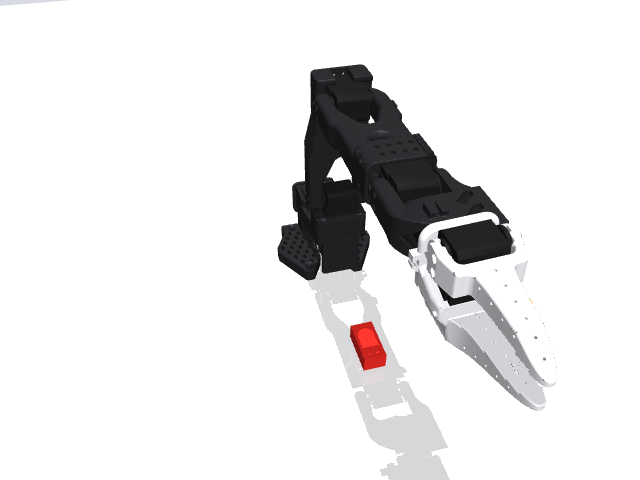
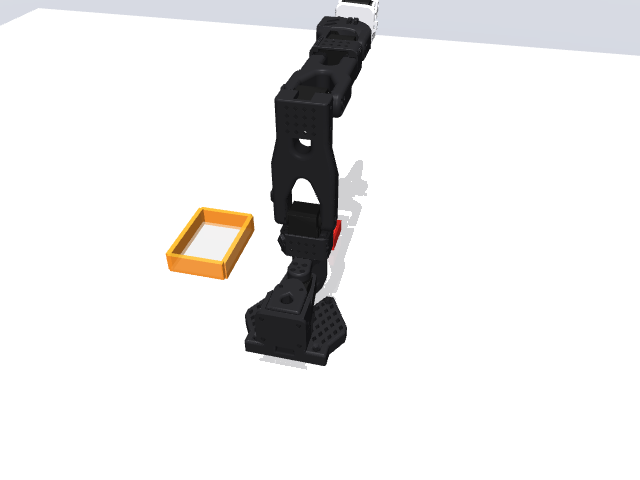
platform: fix up-camera direction + show all 3 cameras in dashboard
Addressing review:
- up camera was front-facing + too zoomed; moved it BEHIND the arm (over-the-shoulder,
  looking forward+down at the workspace via an invisible viewtarget) and pulled it back
  — now matches the real svla_so101_pickplace 'up' view (back of the servos visible)
- driver now renders + saves up/side/wrist each step (model still consumes only up+side)
- dashboard groups frames by camera into separate labelled strips (up / side / wrist)

Verified: a run has up:20/side:20/wrist:20 frames, all serving; up framing matches the
real reference.

Changed region(s): [[0.0, 0.0, 1.0, 1.0]]

diff --git a/web/dashboard.html b/web/dashboard.html
@@ -42,6 +42,8 @@
   .film{display:flex;gap:6px;overflow-x:auto;padding:10px 0 4px;margin-top:8px}
   .film img{height:104px;border-radius:6px;border:1px solid var(--line);cursor:pointer;flex:0 0 auto}
   .film img:hover{border-color:var(--info)}
+  .camrow{margin-top:12px}
+  .camlabel{font-size:10px;letter-spacing:.14em;text-transform:uppercase;color:var(--dim);margin-bottom:3px}
   .toolbar{display:flex;gap:10px;align-items:center;margin:14px 0 8px}
   .btn{background:var(--bg2);border:1px solid var(--line);color:var(--dim);padding:5px 11px;
     border-radius:7px;cursor:pointer;font:inherit}
@@ -99,6 +101,24 @@ function chartCard(title, vals, color){
   return `<div class="card"><h3>${title}<span class="now">${fmt(last)}</span></h3>${spark(vals,color)}</div>`;
 }
 
+// one labelled filmstrip per camera (up / side / wrist), in a sensible order
+function filmstrips(frames){
+  if(!frames.length) return "";
+  const ORDER = ["up","side","wrist"];
+  const byCam = {};
+  frames.forEach(f => { (byCam[f.camera] ||= []).push(f); });
+  const cams = Object.keys(byCam).sort((a,b)=>{
+    const ia=ORDER.indexOf(a), ib=ORDER.indexOf(b);
+    return (ia<0?99:ia) - (ib<0?99:ib);
+  });
+  return cams.map(cam=>`
+    <div class="camrow">
+      <div class="camlabel">${cam} camera</div>
+      <div class="film">${byCam[cam].sort((x,y)=>x.step_idx-y.step_idx).map(f=>
+        `<img src="${API}/blobs/${f.blob_path}" title="${cam} · step ${f.step_idx}"/>`).join("")}</div>
+    </div>`).join("");
+}
+
 async function render(){
   if(!sel) return;
   const [detail, stepsR] = await Promise.all([
@@ -110,8 +130,7 @@ async function render(){
   const col = k => steps.map(s=> k==="action[0]" ? (s.action?s.action[0]:null) : s[k]);
   const charts = ["smd","rnd","ace","latency_ms","action[0]"]
     .map(k=>chartCard(k, col(k), C[k])).join("");
-  const film = frames.length ? `<div class="film">${frames.map(f=>
-    `<img src="${API}/blobs/${f.blob_path}" title="step ${f.step_idx} · ${f.camera}"/>`).join("")}</div>` : "";
+  const film = filmstrips(frames);
   document.getElementById("main").innerHTML = `
     <div class="head">
       <h1>${run.task||'run'}</h1>

diff --git a/drishti/drivers/sim_loop.py b/drishti/drivers/sim_loop.py
@@ -106,10 +106,13 @@ def run(
                 ace=ace_score(chunks),
             )
         env.step(action_deg * DEG2RAD)  # degrees → radian ctrl (env clamps to ctrlrange)
-        rel = f"{run.run_id}/0_{k}_up.jpg"
+        # save all three views for the dashboard (model still only consumed up+side)
+        wrist = env.render("wrist", 640, 480)
         (BLOB_DIR / run.run_id).mkdir(parents=True, exist_ok=True)
-        Image.fromarray(up).save(BLOB_DIR / rel)
-        run.log_frame(camera="up", blob_path=rel, step_idx=k, t=float(k))
+        for cam, img in (("up", up), ("side", side), ("wrist", wrist)):
+            rel = f"{run.run_id}/0_{k}_{cam}.jpg"
+            Image.fromarray(img).save(BLOB_DIR / rel)
+            run.log_frame(camera=cam, blob_path=rel, step_idx=k, t=float(k))
         if (k + 1) % 4 == 0:
             print(f"[run] step {k+1}/{steps}", flush=True)
     run.finish()
